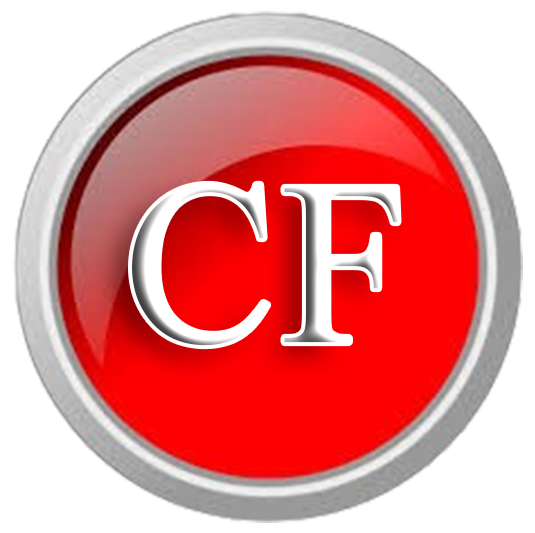
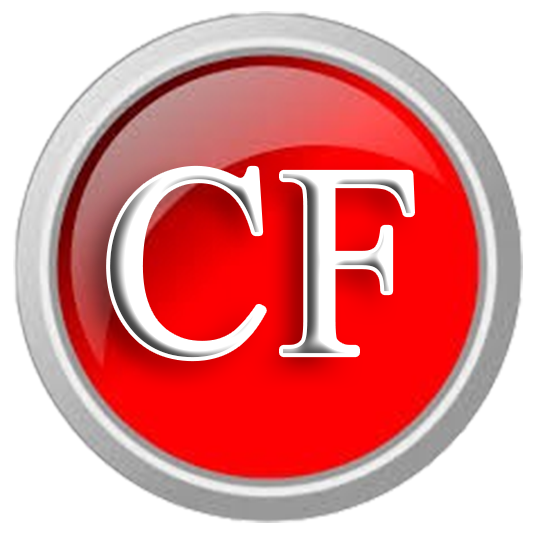
UltimoCommit

Changed region(s): [[0.1495, 0.3002, 0.7776, 0.7205], [0.4785, 0.5403, 0.5084, 0.6004]]

diff --git a/index.html b/index.html
@@ -2,7 +2,7 @@
 <html lang="en">
   <head>
     <meta charset="UTF-8" />
-    <link rel="icon" type="image/svg+xml" href="/LogoRed.png" />
+    <link rel="icon" type="image/svg+xml" href="/buttonCF2.png" />
     <meta name="viewport" content="width=device-width, initial-scale=1.0" />
     <title>ClickFood</title>
   </head>

diff --git a/src/components/NavBar.jsx b/src/components/NavBar.jsx
@@ -13,7 +13,7 @@ export default function NavBar() {
       >
         <img
           src="/buttonCF2.png"
-          alt="logored"
+          alt="logoCF"
           className="size-18 cursor-pointer ml-4"
         />
       </button>
